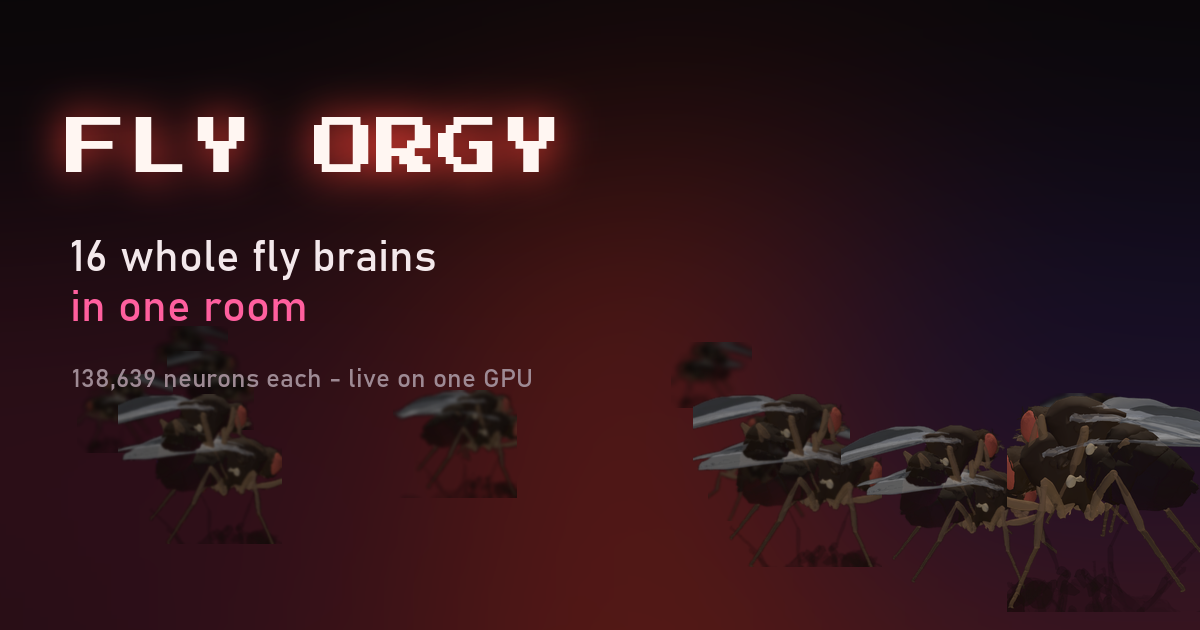
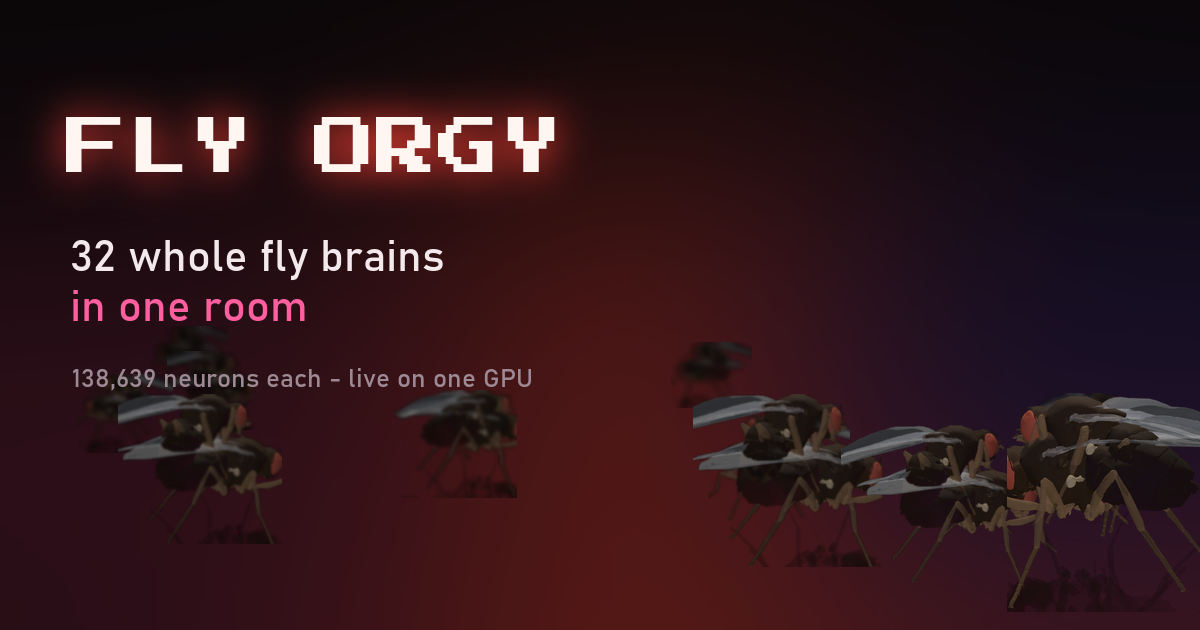
32 moscas (16 casais): medido na RTX 4090 do pod
Na 4090 alugada o conectoma anda muito mais que na 7900 XT: 2.328 passos/s com uma
mosca, 254 com 16 e 127 com 32 - ou seja, 32 cerebros rodam na MESMA velocidade que
as duas moscas do SEX FLY, em 1,03 GB.

- site: o tamanho do enxame vem do 'ola' do servidor, nada chumbado; os cerebrinhos
  se remontam sozinhos (8 colunas acima de 16 moscas)
- cliente: aneis de 3, 5, 8 e 12 pares, camera enquadrando o anel de fora, reflexo
  desligado acima de 16 moscas (dobraria o triangulo a toa)
- texto e arte corrigidos para 32

Changed region(s): [[0.0617, 0.3619, 0.37, 0.4524]]

diff --git a/site/publico.html b/site/publico.html
@@ -3,13 +3,13 @@
 <head>
 <meta charset="utf-8">
 <meta name="viewport" content="width=device-width,initial-scale=1">
-<title>FLY ORGY — a swarm of real fly brains, mating on your buys</title>
-<meta name="description" content="Sixteen whole fruit-fly connectomes, 138,639 neurons each, running live on one GPU. Every buy on the curve reaches their touch neurons and the room speeds up.">
+<title>FLY ORGY — 32 real fly brains in one room</title>
+<meta name="description" content="Thirty-two whole fruit-fly connectomes, 138,639 neurons each, running live on one GPU. Every buy on the curve reaches their touch neurons and the room speeds up.">
 <link rel="icon" href="/static/favicon.png">
 <meta property="og:type" content="website">
 <meta property="og:site_name" content="FLY ORGY">
-<meta property="og:title" content="FLY ORGY — 16 real fly brains, one room">
-<meta property="og:description" content="Sixteen whole fruit-fly connectomes on one GPU. Every buy reaches their touch neurons and the room speeds up.">
+<meta property="og:title" content="FLY ORGY — 32 real fly brains, one room">
+<meta property="og:description" content="Thirty-two whole fruit-fly connectomes on one GPU. Every buy reaches their touch neurons and the room speeds up.">
 <meta property="og:image" content="/static/og.png">
 <meta name="twitter:card" content="summary_large_image">
 <link rel="preconnect" href="https://fonts.googleapis.com"><link rel="preconnect" href="https://fonts.gstatic.com" crossorigin>
@@ -101,7 +101,7 @@ a{color:inherit}
   <div class="pilulas">
     <span class="pil morta" id="viva"><i></i>connecting</span>
     <span class="pil" id="pViewers">watching <b>0</b></span>
-    <span class="pil" id="pPares">pairs <b>0/8</b></span>
+    <span class="pil" id="pPares">pairs <b>0</b></span>
     <a class="bt" id="btX" href="#" target="_blank" rel="noopener">X</a>
   </div>
 </div>
@@ -109,12 +109,12 @@ a{color:inherit}
 <div class="grade">
   <div>
     <div class="caixa">
-      <div class="cab"><b>THE ROOM</b> · 16 flies, 8 pairs, one GPU
+      <div class="cab"><b>THE ROOM</b> · one GPU, one brain per fly
         <span class="dir" id="camInfo"></span></div>
       <div id="palco">
         <canvas id="cv"></canvas>
         <div class="hud">
-          <div>mating <b class="q" id="hPares">0</b> / 8</div>
+          <div>mating <b class="q" id="hPares">0</b> pairs</div>
           <div>fastest <b id="hRitmo">0</b> Hz</div>
           <div>swarm <b id="hSpikes">0</b> spikes/s</div>
           <div>brain speed <b id="hPassos">0</b> steps/s</div>
@@ -124,7 +124,7 @@ a{color:inherit}
     </div>
 
     <div class="caixa" style="margin-top:14px">
-      <div class="cab"><b>16 BRAINS</b> · one dot = one neuron that just fired
+      <div class="cab"><b>EVERY BRAIN</b> · one dot = one neuron that just fired
         <span class="dir" id="focoInfo">full cloud rotates between them</span></div>
       <div class="cerebros" id="cerebros"></div>
     </div>
@@ -152,7 +152,7 @@ a{color:inherit}
     <h2>What you are looking at</h2>
     <div class="duas">
       <div>
-        <p>Sixteen fruit flies are in that room. Each one has a <b>whole brain</b>: 138,639 neurons and
+        <p>Thirty-two fruit flies are in that room, sixteen couples. Each one has a <b>whole brain</b>: 138,639 neurons and
            15,091,983 synapses, wired exactly the way they are wired in a real <i>Drosophila melanogaster</i>,
            from the FlyWire connectome. They run as leaky integrate-and-fire neurons on one GPU, in real
            electrical time, 0.1 ms per step.</p>
@@ -168,15 +168,15 @@ a{color:inherit}
            hottest female and she kicks him off.</p>
       </div>
       <div>
-        <h3>Why sixteen brains fit on one card</h3>
+        <h3>Why thirty-two brains fit on one card</h3>
         <p>The expensive part of a connectome is the synapse matrix, and it is the same matrix for every fly.
-           So the sixteen brains share one copy of it and each fly is a row of the state tensor: 27 MB of
-           membrane state each instead of 1.3 GB. Measured on the card that runs this: 16 brains at 161 steps
-           per second, 0.60 GB total — faster per brain than running two of them separately.</p>
+           So the thirty-two brains share one copy of it and each fly is a row of the state tensor: 27 MB of
+           membrane state each instead of 1.3 GB. Measured on the RTX 4090 that runs this: one brain alone does
+           2,328 steps per second, thirty-two do 127 each — the same speed SEX FLY runs two at — in 1.03 GB.</p>
         <h3>What is honest here</h3>
         <p>The brains are real and independent: stimulate fly 3 and only fly 3 fires. The bodies are the same
-           anatomical model (NeuroMechFly) drawn sixteen times, each reading the pose stream at its own delay,
-           with its pair's own rhythm on top — so the legs and wings are real fly kinematics, not sixteen
+           anatomical model (NeuroMechFly) drawn thirty-two times, each reading the pose stream at its own delay,
+           with its pair's own rhythm on top — so the legs and wings are real fly kinematics, not thirty-two
            separate physics simulations.</p>
         <p>Learning is <b>off</b>. Hebbian plasticity would change the shared synapse matrix, which would mean
            the swarm learning together instead of each fly learning alone, and we are not going to call that
@@ -193,14 +193,17 @@ a{color:inherit}
 <script src="/static/orgia-cliente.js"></script>
 <script>
 const $ = id => document.getElementById(id);
-const NF = 16, NP = 8;
+let NF = 0, NP = 0;                 // vem do 'ola' do servidor
 let xyz = null, nreg = null, ultimoQuadro = 0, versao = null;
 const minis = [];
 
 // ---------- cerebrinhos: projecao 2D dos neuronios que dispararam, girando junto ----------
-async function montarCerebros() {
-  xyz = new Float32Array(await (await fetch('/static/neurons.bin')).arrayBuffer());
+async function montarCerebros(n) {
+  NF = n; NP = n >> 1;
+  if (!xyz) xyz = new Float32Array(await (await fetch('/static/neurons.bin')).arrayBuffer());
   const cx = $('cerebros');
+  cx.innerHTML = ''; minis.length = 0;
+  cx.style.gridTemplateColumns = 'repeat(' + (NF > 16 ? 8 : 4) + ',1fr)';
   for (let i = 0; i < NF; i++) {
     const d = document.createElement('div'); d.className = 'mini'; d.id = 'mini' + i;
     d.innerHTML = '<canvas width="150" height="150"></canvas><span>' + (i % 2 ? 'M' : 'F') + (Math.floor(i / 2) + 1) + '</span><u></u>';
@@ -271,7 +274,11 @@ function binario(buf) {
 }
 
 function texto(m) {
-  if (m.tipo === 'ola') { $('camInfo').textContent = m.moscas + ' brains · ' + fmt(m.synapses) + ' synapses each · ' + (m.device || '').toUpperCase(); return; }
+  if (m.tipo === 'ola') {
+    $('camInfo').textContent = m.moscas + ' brains · ' + fmt(m.synapses) + ' synapses each · ' + (m.device || '').toUpperCase();
+    if (m.moscas !== NF) { montarCerebros(m.moscas).then(() => Orgia.init($('cv'), m.moscas)); }
+    return;
+  }
   if (m.tipo === 'config') { config(m); return; }
   if (m.tipo !== 'mercado') return;
   if (m.classe === 'resumo') { resumo(m); return; }
@@ -337,11 +344,7 @@ const dinheiro = n => n >= 1e6 ? '$' + (n / 1e6).toFixed(2) + 'M' : (n >= 1e3 ? 
 const hora = () => new Date().toLocaleTimeString([], { hour: '2-digit', minute: '2-digit', second: '2-digit' });
 const esc = s => String(s == null ? '' : s).replace(/[<>&]/g, c => ({ '<': '&lt;', '>': '&gt;', '&': '&amp;' }[c]));
 
-(async () => {
-  await montarCerebros();
-  Orgia.init($('cv'), NF);
-  ligar();
-})();
+ligar();   // o 'ola' diz quantas moscas sao e so entao monta a sala e os cerebrinhos
 </script>
 </body>
 </html>

diff --git a/site/orgia-cliente.js b/site/orgia-cliente.js
@@ -41,11 +41,15 @@ window.Orgia = (function () {
   function arranjar(nf) {
     const np = Math.floor(nf / 2); S.pares = []; S.moscas = [];
     for (let p = 0; p < np; p++) {
-      const anel = p < 3 ? 0 : (p < 8 ? 1 : 2);
-      const naAnel = anel === 0 ? Math.min(3, np) : (anel === 1 ? Math.min(5, np - 3) : np - 8);
-      const iAnel = anel === 0 ? p : (anel === 1 ? p - 3 : p - 8);
-      const r = [3.4, 7.6, 11.4][anel];
-      const a = (iAnel / Math.max(1, naAnel)) * Math.PI * 2 + [0.0, 0.55, 1.1][anel];
+      // aneis de 3, 5, 8 e 12 pares; o que sobrar vai para o de fora
+      const CAPS = [3, 5, 8, 12], RAIOS = [3.4, 7.6, 11.4, 15.6], GIROS = [0.0, 0.55, 1.1, 1.7];
+      let anel = 0, ini = 0;
+      while (anel < 3 && p >= ini + CAPS[anel]) { ini += CAPS[anel]; anel++; }
+      const naAnel = Math.min(CAPS[anel], np - ini);
+      const iAnel = p - ini;
+      const r = RAIOS[anel];
+      S.raioMax = Math.max(S.raioMax || 0, r);
+      const a = (iAnel / Math.max(1, naAnel)) * Math.PI * 2 + GIROS[anel];
       const x = Math.cos(a) * r, y = Math.sin(a) * r;
       const yaw = a + Math.PI * 0.5 + (((p * 2654435761) % 1000) / 1000 - 0.5) * 0.9;   // meio de lado, sem sorteio a cada carga
       S.pares.push({
@@ -56,6 +60,8 @@ window.Orgia = (function () {
       S.moscas.push({ par: p, papel: 'f' }, { par: p, papel: 'm' });
     }
     S.NF = S.moscas.length;
+    S.orbita.dist = 15 + (S.raioMax || 3.4) * 1.55;      // enquadra o anel de fora
+    S.reflexo = S.NF <= 16;                              // acima disso o reflexo dobra o triangulo a toa
   }
 
   async function init(canvas, nf) {

diff --git a/brand/gerar_arte.py b/brand/gerar_arte.py
@@ -98,7 +98,7 @@ f1 = ImageFont.truetype(PIX, 62)
 og = brilho_texto(og, 'FLY ORGY', (66, 118), f1, QUENTE, 20)
 d = ImageDraw.Draw(og)
 d.text((66, 118), 'FLY ORGY', font=f1, fill=(255, 246, 242))
-d.text((70, 236), '16 whole fly brains', font=ImageFont.truetype(BAHN, 44), fill=(243, 232, 235))
+d.text((70, 236), '32 whole fly brains', font=ImageFont.truetype(BAHN, 44), fill=(243, 232, 235))
 d.text((70, 286), 'in one room', font=ImageFont.truetype(BAHN, 44), fill=ROSA)
 d.text((72, 366), '138,639 neurons each - live on one GPU', font=ImageFont.truetype(BAHN, 26), fill=(158, 138, 148))
 og.convert('RGB').save(os.path.join(SITE, 'og.png'))
@@ -119,7 +119,7 @@ f2 = ImageFont.truetype(PIX, 118)
 capa = brilho_texto(capa, 'FLY ORGY', (140, 210), f2, QUENTE, 34)
 d = ImageDraw.Draw(capa)
 d.text((140, 210), 'FLY ORGY', font=f2, fill=(255, 246, 242))
-d.text((146, 400), 'sixteen real fruit-fly connectomes, one room, one GPU',
+d.text((146, 400), 'thirty-two real fruit-fly connectomes, one room, one GPU',
        font=ImageFont.truetype(BAHN, 60), fill=(226, 210, 216))
 capa.convert('RGB').save(os.path.join(BRAND, 'x-capa-3000x1000.png'))
 capa.convert('RGB').resize((1500, 500), Image.LANCZOS).save(os.path.join(BRAND, 'x-capa-1500x500.png'))
